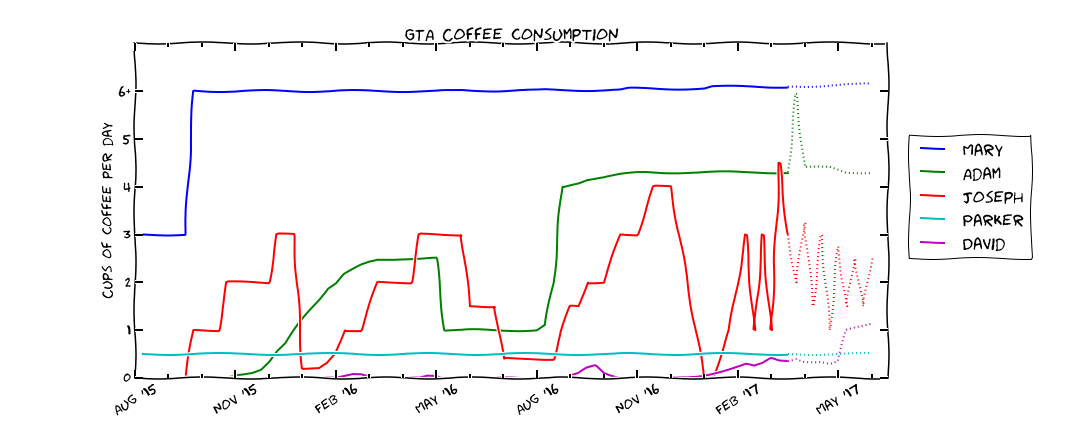
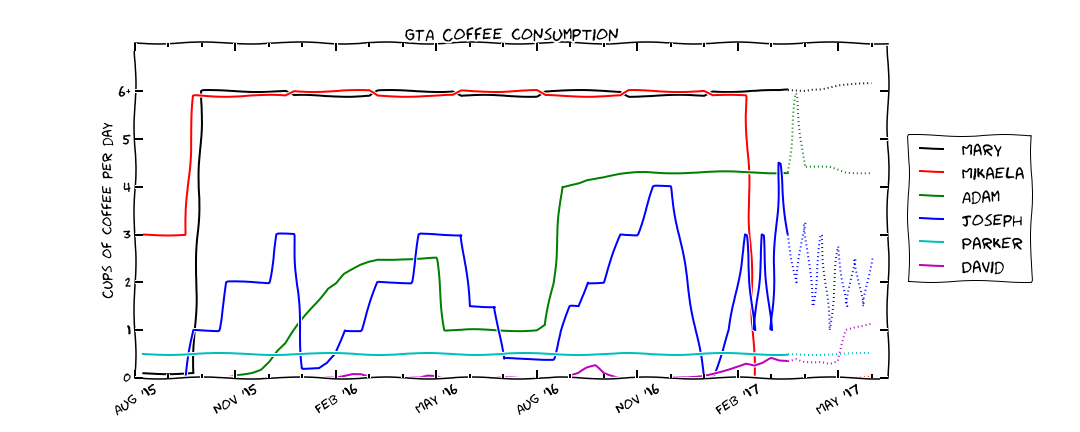
add mikaela

diff --git a/coffee.py b/coffee.py
@@ -22,7 +22,9 @@ minorLocator = AutoMinorLocator(3)
 
 parker = pd.Series([0.5]*88)
 
-mary = pd.Series([3.0]*6+[6.0]*32+[6.01]*10+[6.02]*10+[6.05]*10+[6.09]*10+[6.10]*2+[6.11]*2+[6.12]*2+[6.13]*2+[6.14]+6.15)
+time = pd.Series([i for i in range(1,89)])
+
+mary = pd.Series([0.1]*7+[6.0]*11+[5.9]*10+[6.0]*10+[5.9]*10+[6.0]*10+[5.9]*10+[6.0]*9+[6.02]*3+[6.05]*2+[6.08]+[6.11]+[6.12]+[6.13]+[6.14]+[6.15])
 
 david = pd.Series([0.0, 0.0, 0.0, 0.0, 0.0, 0.0, 0.0, 0.0, 0.0, 0.0, 0.0, 0.0,
                     0.0, 0.0, 0.0, 0.0, 0.0, 0.0, 0.0, 0.0, 0.0, 0.0, 0.0, 0.0, 
@@ -42,16 +44,8 @@ joseph = pd.Series([0.0, 0.0, 0.0, 0.0, 0.0, 0.0, 1.0, 1.0, 1.0, 1.0, 2.0, 2.0,
                     3.0, 1.0, 3.0, 1.0, 4.5, 3.0, 2.0, 3.25, 1.5, #np.nan, np.nan, 
                     3.0, 1.0, 2.75, 1.5, 2.5, 1.5, 2.5])
 
-"""    
-mikaela =pd.Series([1.0, 1.0, 1.0, 1.0, 1.0, 1.0, 1.0, 1.0, 1.0, 1.0, 1.0, 1.0,
-                    1.0, 1.0, 1.0, 1.0, 1.0, 1.0, 1.0, 1.0, 1.0, 1.0, 1.0, 1.0,
-                    1.0, 1.0, 1.0, 1.0, 1.0, 1.0, 1.0, 1.0, 1.0, 1.0, 1.0, 1.0,
-                    1.0, 1.0, 1.0, 1.0, 1.0, 1.0, 1.0, 1.0, 1.0, 1.0, 1.0, 1.0,
-                    1.0, 1.0, 1.0, 1.0, 1.0, 1.0, 1.0, 1.0, 1.0, 1.0, 1.0, 1.0,
-                    1.0, 1.0, 1.0, 1.0, 1.0, 1.0, 1.0, 1.0, 1.0, 1.0, 1.0, 1.0,
-                    1.0, 1.0, 1.0, 1.0, 1.0, 1.0, 1.0, 1.0, 1.0, 1.0, 1.0, 1.0,
-                    1.0, 1.0, 1.0, 1.0])
-"""
+mikaela = pd.Series([3.0]*6+[5.9]*12+[6.0]*10+[5.9]*10+[6.0]*10+[5.9]*10+[6.0]*10+[5.9]*5+[0.0]*15)
+
 
 adam = pd.Series([  0.0, 0.0, 0.0, 0.0, 0.0, 0.0, 0.0, 0.0, 0.0, 0.0, 0.0, 0.05,
                     0.08, 0.12, 0.19, 0.36, 0.57, 0.72, 0.98, 1.22, 1.45, 1.66, 1.88, 1.99,
@@ -67,7 +61,7 @@ adam = pd.Series([  0.0, 0.0, 0.0, 0.0, 0.0, 0.0, 0.0, 0.0, 0.0, 0.0, 0.0, 0.05,
 xlabels = ["Aug '15", "Nov '15", "Feb '16", "May '16", "Aug '16", "Nov '16", "Feb '17", "May '17"]
 ylabels = ["0","1","2","3","4","5","6+",""]            
 
-plt.plot(x, y, 'ro')
+#plt.plot(x, y, 'ro')
 # You can specify a rotation for the tick labels in degrees or with keywords.
 
 
@@ -75,17 +69,19 @@ threshold = 78
 below = time <= threshold
 above = time >= threshold
 
-fig = plt.figure(num=None, figsize=(15, 6), dpi=80, facecolor='w', edgecolor='k')
+fig = plt.figure(num=None, figsize=(15, 6), dpi=180, facecolor='w', edgecolor='k')
 with plt.xkcd():
     ax = plt.subplot(111)
-    ax.plot(time[below], mary[below], 'b-')
+    ax.plot(time[below], mary[below], 'k-')
+    ax.plot(time[below], mikaela[below], 'r-')
     ax.plot(time[below], adam[below], 'g-')
-    ax.plot(time[below], joseph[below], 'r-')
+    ax.plot(time[below], joseph[below], 'b-')
     ax.plot(time[below], parker[below], 'c-')
     ax.plot(time[below], david[below], 'm-')
-    ax.plot(time[above], mary[above], 'b:')
+    ax.plot(time[above], mary[above], 'k:')
+    ax.plot(time[above], mikaela[above], 'r:')
     ax.plot(time[above], adam[above], 'g:')
-    ax.plot(time[above], joseph[above], 'r:')
+    ax.plot(time[above], joseph[above], 'b:')
     ax.plot(time[above], parker[above], 'c:')
     ax.plot(time[above], david[above], 'm:')
     #ax.text(81.6, 2.9, r'??', fontsize = 16, color = 'red')
@@ -103,7 +99,7 @@ with plt.xkcd():
     plt.title("GTA Coffee consumption")
     box = ax.get_position()
     ax.set_position([box.x0, box.y0, box.width*0.9, box.height])
-    ax.legend(['Mary', 'Adam', 'Joseph', 'Parker', 'David'], bbox_to_anchor=(1.2, .75))
+    ax.legend(['Mary', 'Mikaela','Adam', 'Joseph', 'Parker', 'David'], bbox_to_anchor=(1.2, .75))
     plt.savefig('coffee.png')
 
 
